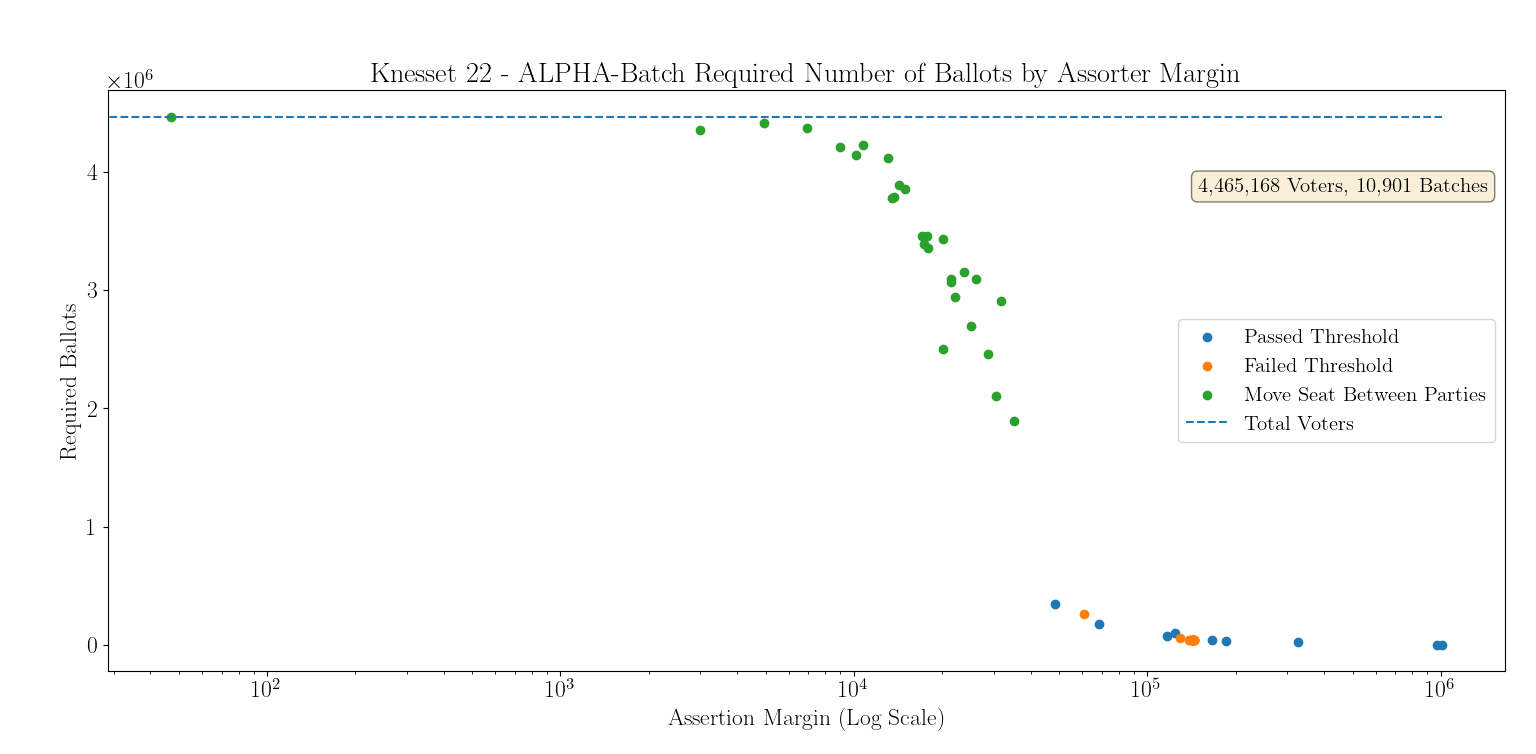
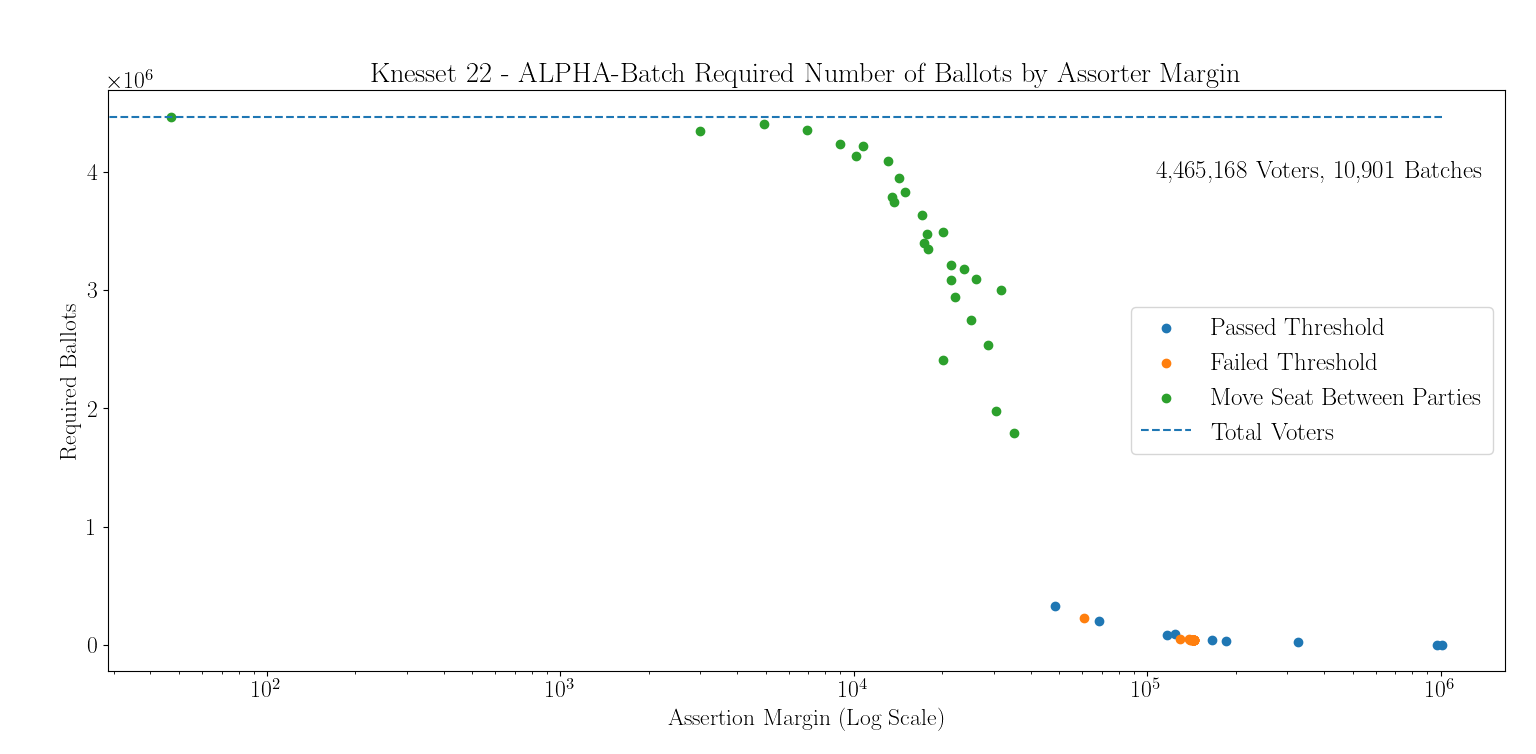
Election plotter done
hopefully

diff --git a/Plotter.py b/Plotter.py
@@ -86,9 +86,13 @@ def assertions_comparison_plots(alpha_assertions_list, batchcomp_assertions_list
 
     props = dict(boxstyle='round', facecolor='wheat', alpha=0.5)
     voters_batches_txt = str('{:,}'.format(total_voters)) + " Voters, " + str('{:,}'.format(total_batches)) + str(" Batches")
-    ax_alpha.text(0.78, 0.85, voters_batches_txt, transform=ax_alpha.transAxes, fontsize=15, verticalalignment='top', bbox=props)
-    ax_bc.text(0.78, 0.85, voters_batches_txt, transform=ax_alpha.transAxes, fontsize=15, verticalalignment='top', bbox=props)
-    ax_diff.text(0.78, 0.85, voters_batches_txt, transform=ax_alpha.transAxes, fontsize=15, verticalalignment='top', bbox=props)
+    #ax_alpha.text(0.7, 0.85, voters_batches_txt, transform=ax_alpha.transAxes, fontsize=15, verticalalignment='top', bbox=props)
+    ax_alpha.annotate(voters_batches_txt, xy=(0.75, 0.85), xycoords='axes fraction', fontsize=18)
+    ax_bc.annotate(voters_batches_txt, xy=(0.75, 0.85), xycoords='axes fraction', fontsize=18)
+    ax_diff.annotate(voters_batches_txt, xy=(0.75, 0.85), xycoords='axes fraction', fontsize=18)
+
+    #ax_bc.text(0.7, 0.85, voters_batches_txt, transform=ax_alpha.transAxes, fontsize=15, verticalalignment='top', bbox=props)
+    #ax_diff.text(0.7, 0.85, voters_batches_txt, transform=ax_alpha.transAxes, fontsize=15, verticalalignment='top', bbox=props)
 
     ax_alpha.set_title("Knesset " + str(knesset_num) + ' - ALPHA-Batch Required Number of Ballots by Assorter Margin')
     ax_bc.set_title("Knesset " + str(knesset_num) + ' - Batchcomp Required Number of Ballots by Assorter Margin')
@@ -108,14 +112,17 @@ def assertions_comparison_plots(alpha_assertions_list, batchcomp_assertions_list
     ax_bc.set_ylabel("Required Ballots")
     ax_diff.set_xlabel("Assertion Margin (Log Scale)")
     ax_diff.set_ylabel("Required Ballots")
-    ax_alpha.legend(loc='right', prop={'size': 15})
-    ax_bc.legend(loc='right', prop={'size': 15})
-    ax_diff.legend(loc='lower right', prop={'size': 15})
+    ax_alpha.legend(loc='right', prop={'size': 18})
+    ax_bc.legend(loc='right', prop={'size': 18})
+    ax_diff.legend(loc='right', prop={'size': 18})
 
     timestamp = time.strftime('%b-%d-%Y_%H%M', time.localtime())
-    fig_alpha.savefig(str(timestamp) + ' plot alpha.png', bbox_inches='tight')
-    fig_bc.savefig(str(timestamp) + ' plot bc.png', bbox_inches='tight')
-    fig_diff.savefig(str(timestamp) + ' plot alpha-bc diff.png', bbox_inches='tight')
+    #fig_alpha.savefig(str(timestamp) + ' plot alpha.png', bbox_inches='tight')
+    #fig_bc.savefig(str(timestamp) + ' plot bc.png', bbox_inches='tight')
+    #fig_diff.savefig(str(timestamp) + ' plot alpha-bc diff.png', bbox_inches='tight')
+    fig_alpha.show()
+    fig_bc.show()
+    fig_diff.show()
     plt.show()
     save_filename = ".\\Results\\Knesset " + str(knesset_num) + ' data matrix - ' + timestamp
     np.save(save_filename, assertion_data_mat)
@@ -159,7 +166,7 @@ def assertions_with_error_plots(assertions_list, noised_assertions_list, total_v
 
     fig_errors.subplots_adjust(left=0.07, bottom=0.11, top=0.88, right=0.98, hspace=0.28)
     fig_accurate.subplots_adjust(left=0.07, bottom=0.11, top=0.88, right=0.98, hspace=0.28)
-    fig_diff.subplots_adjust(left=0.07, bottom=0.11, top=0.88, right=0.98, hspace=0.28)
+    fig_diff.subplots_adjust(left=0.1, bottom=0.11, top=0.88, right=0.98, hspace=0.28)
 
     for i, lab in enumerate(ASSERTION_LABELS):
         slicer = np.where(assertion_data_mat[:, ASSERTION_TYPE_IND] == i + 1)
@@ -180,9 +187,14 @@ def assertions_with_error_plots(assertions_list, noised_assertions_list, total_v
     props = dict(boxstyle='round', facecolor='wheat', alpha=0.5)
     voters_batches_txt = str('{:,}'.format(total_voters)) + " Voters, " + str('{:,}'.format(total_batches)) + str(
         " Batches")
-    ax_errors.text(0.78, 0.85, voters_batches_txt, transform=ax_errors.transAxes, fontsize=15, verticalalignment='top', bbox=props)
-    ax_accurate.text(0.78, 0.85, voters_batches_txt, transform=ax_accurate.transAxes, fontsize=15, verticalalignment='top', bbox=props)
-    ax_diff.text(0.78, 0.85, voters_batches_txt, transform=ax_errors.transAxes, fontsize=15, verticalalignment='top', bbox=props)
+
+    ax_errors.annotate(voters_batches_txt, xy=(0.75, 0.85), xycoords='axes fraction', fontsize=18)
+    ax_accurate.annotate(voters_batches_txt, xy=(0.75, 0.85), xycoords='axes fraction', fontsize=18)
+    ax_diff.annotate(voters_batches_txt, xy=(0.75, 0.55), xycoords='axes fraction', fontsize=18)
+
+    #ax_errors.text(0.78, 0.85, voters_batches_txt, transform=ax_errors.transAxes, fontsize=15, verticalalignment='top', bbox=props)
+    #ax_accurate.text(0.78, 0.85, voters_batches_txt, transform=ax_accurate.transAxes, fontsize=15, verticalalignment='top', bbox=props)
+    #ax_diff.text(0.78, 0.85, voters_batches_txt, transform=ax_errors.transAxes, fontsize=15, verticalalignment='top', bbox=props)
     ax_errors.set_title("Knesset " + str(knesset_num) + ' - Batchcomp Required Number of Ballots by Assorter Margin With Counting Errors')
     ax_accurate.set_title("Knesset " + str(knesset_num) + " - Batchcomp Required Number of Ballots by Assorter Margin Without Counting Errors")
     ax_diff.set_title("Knesset " + str(knesset_num) + " Difference in Ballots Required (With Errors - Without Errors)")
@@ -195,14 +207,14 @@ def assertions_with_error_plots(assertions_list, noised_assertions_list, total_v
     ax_accurate.set_xscale('log')
     ax_errors.set_xscale('log')
     ax_diff.set_xscale('log')
-    ax_accurate.legend(loc='right', prop={'size': 15})
-    ax_errors.legend(loc='right', prop={'size': 15})
-    ax_diff.legend(loc='right', prop={'size': 15})
+    ax_accurate.legend(loc='right', prop={'size': 18})
+    ax_errors.legend(loc='right', prop={'size': 18})
+    ax_diff.legend(loc='upper right', prop={'size': 18})
 
     timestamp = time.strftime('%b-%d-%Y_%H%M', time.localtime())
-    fig_accurate.savefig(str(timestamp) + ' plot accurate.png', bbox_inches='tight')
-    fig_errors.savefig(str(timestamp) + ' plot errors.png', bbox_inches='tight')
-    fig_diff.savefig(str(timestamp) + ' plot diff.png', bbox_inches='tight')
+    #fig_accurate.savefig(str(timestamp) + ' plot accurate.png', bbox_inches='tight')
+    #fig_errors.savefig(str(timestamp) + ' plot errors.png', bbox_inches='tight')
+    #fig_diff.savefig(str(timestamp) + ' plot diff.png', bbox_inches='tight')
 
     plt.show()
 

diff --git a/Main.py b/Main.py
@@ -59,7 +59,7 @@ def make_comp_plot(profile, knesset_num, reps=10, alpha=ALPHA, threshold=THRESHO
                                         len(profile.batches), knesset_num)
 
 def make_error_plot(reps=10, alpha=ALPHA, threshold=THRESHOLD):
-    for knesset_i in [23, 24]:
+    for knesset_i in [24]:  # [23, 24]:
         noised_assertions_list = []
         unnoised_assertions_list = []
         unnoised_profile = ElectionProfile('Results ' + str(knesset_i) + '.csv', THRESHOLD, SEATS, APPARENTMENTS[knesset_i])
@@ -154,5 +154,5 @@ if __name__ == "__main__":
     #    prof = ElectionProfile('Results ' + str(knesset_i) + '.csv', THRESHOLD, SEATS, APPARENTMENTS[knesset_i])
     #    make_comp_plot(prof, knesset_i, reps=10)
         #election_profiles.append(prof)
-    make_error_plot()
+    make_error_plot(reps=10)
     #make_prediction_plots(election_profiles)
